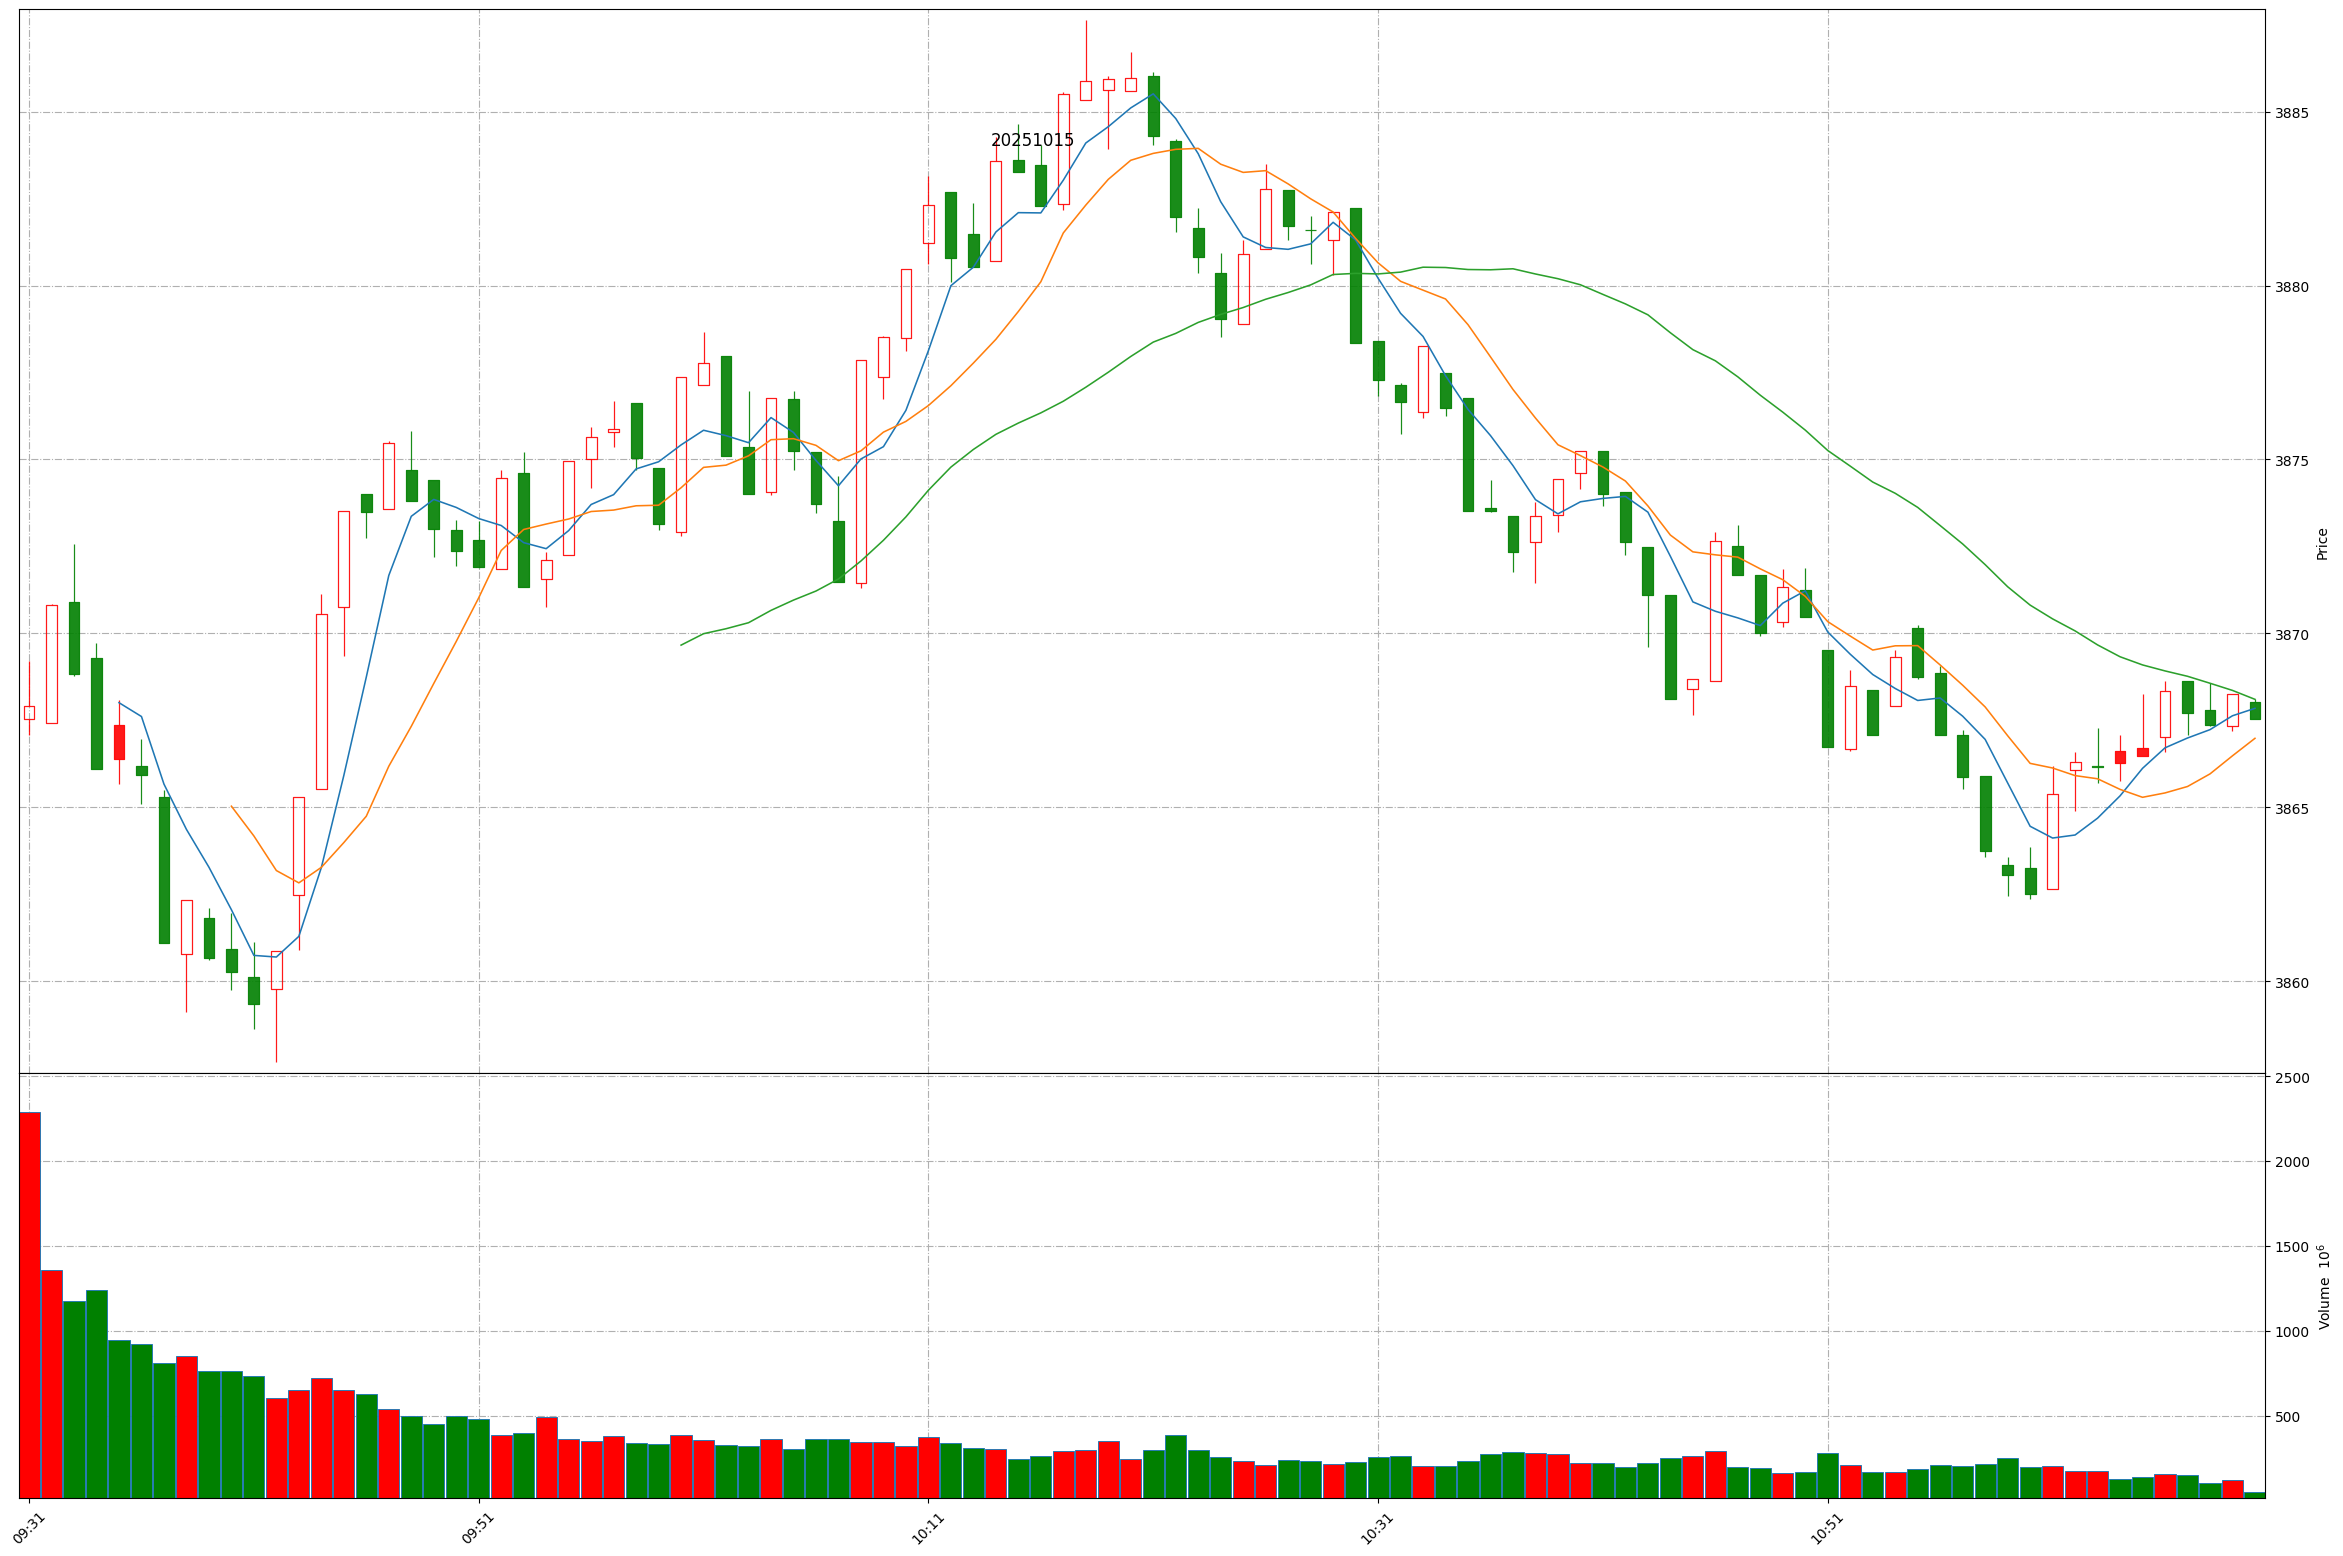
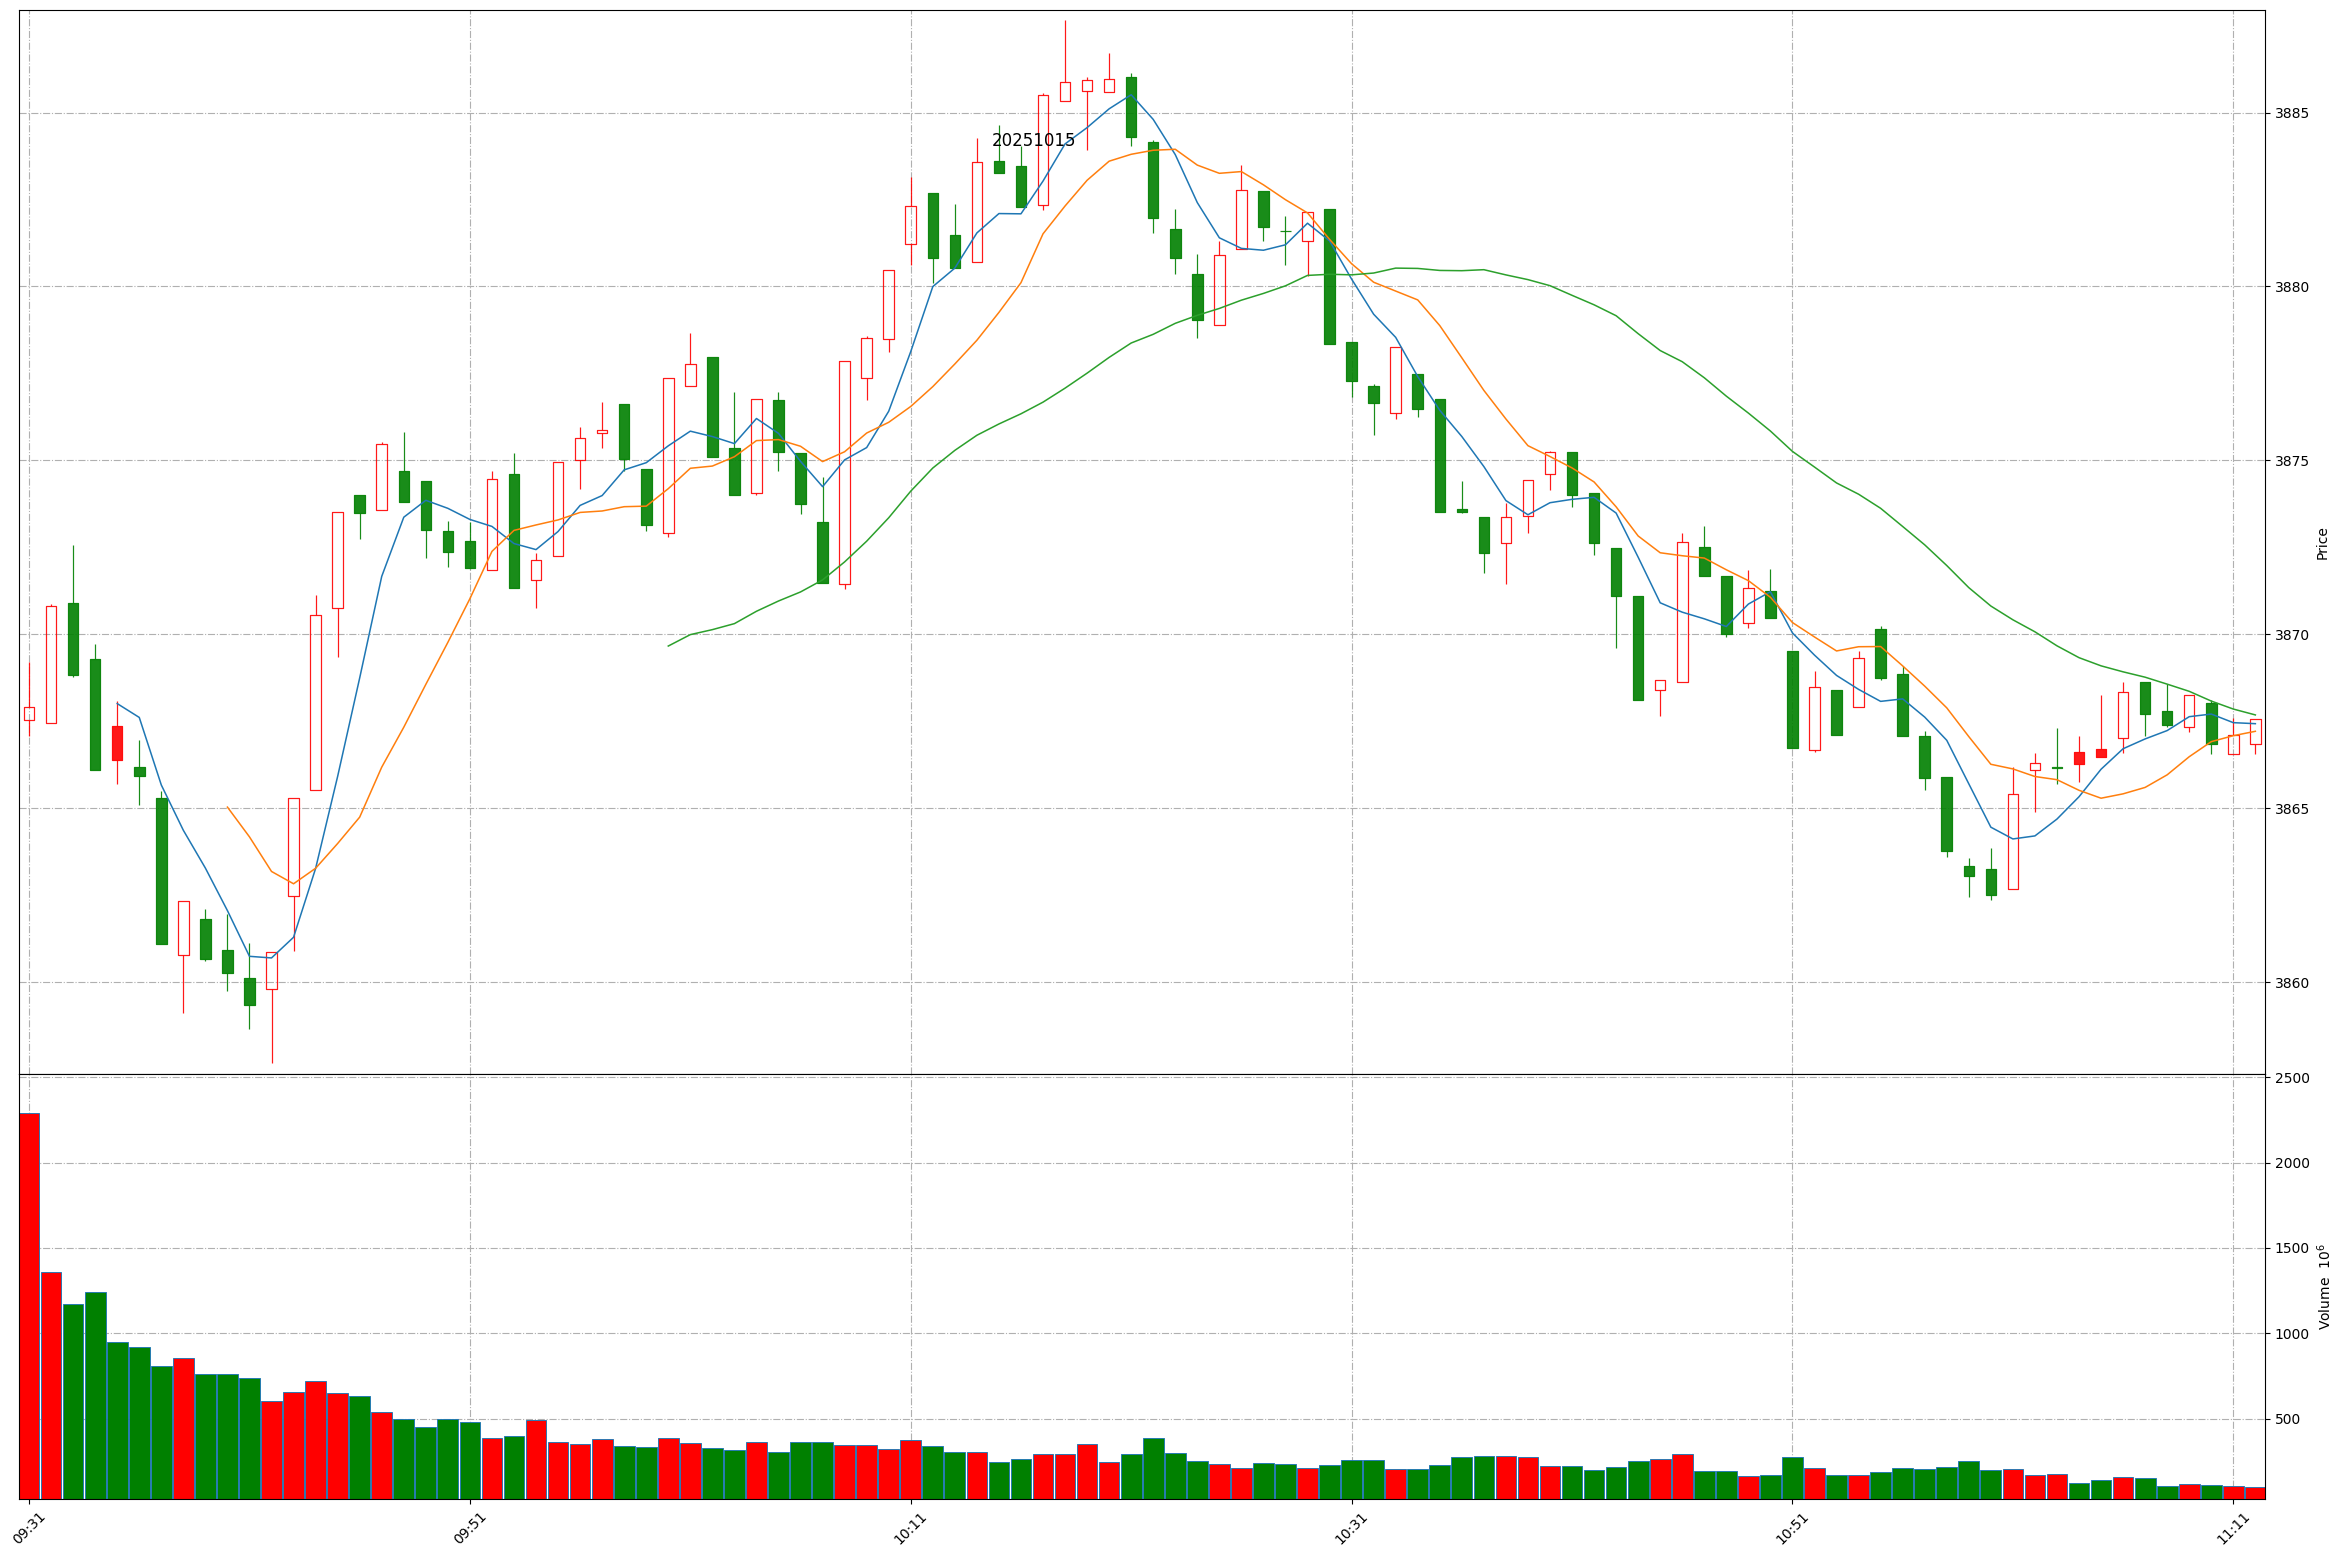
Github action update at 2025-10-15 11:12:17.

diff --git a/README.md b/README.md
@@ -1,11 +1,11 @@
 
 # Daily-A-share-market-quotes 每日 A 股指数（5min 更新）- 20251015
 
-### 上证指数 20251015 11:9
+### 上证指数 20251015 11:12
 ![](./fig/2025/10/20251015-sh000001.png)
 
-### 深证成指 20251015 11:9
+### 深证成指 20251015 11:12
 ![](./fig/2025/10/20251015-sz399001.png)
 
-### 北证50 20251015 11:9
+### 北证50 20251015 11:12
 ![](./fig/2025/10/20251015-bj899050.png)
